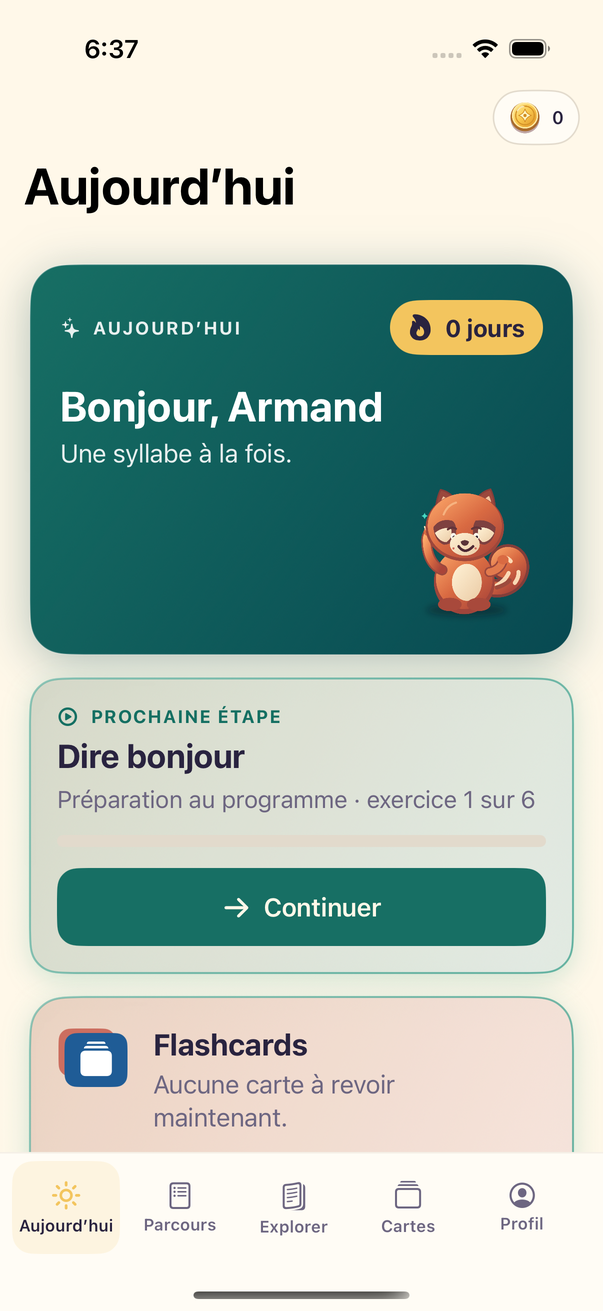
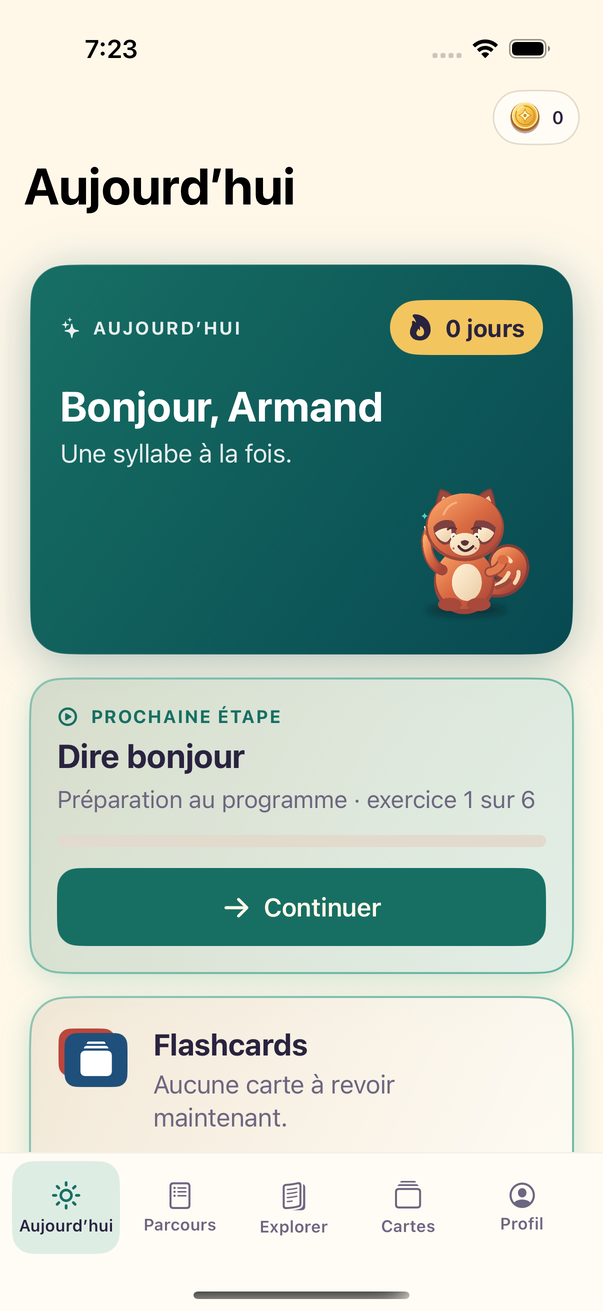
docs: refresh home and path screenshots for the shared charter [skip ci]

Changed region(s): [[0.0, 0.8848, 0.209, 0.9764], [0.0896, 0.7628, 0.209, 0.8543], [0.1493, 0.0305, 0.2388, 0.061]]

diff --git a/docs/RELEASE.md b/docs/RELEASE.md
@@ -82,13 +82,14 @@ captures du dépôt en proviennent (iPhone 16 Pro réduit à 603 × 1311, Mac
 
 | Capture | Dimensions | SHA-256 |
 | --- | --- | --- |
[16 lines of base64/hex data omitted]
@@ -97,7 +98,12 @@ captures du dépôt en proviennent (iPhone 16 Pro réduit à 603 × 1311, Mac
 Les deux captures de dialogue (écran d’intro, pinyin et traduction masqués par
 défaut) proviennent du
 [run 36446200223](https://github.com/STOOOKEEE/Polygo/actions/runs/36446200223)
-sur `cc01093`.
+sur `cc01093`. Les captures d’accueil, de parcours (unités repliables, clair
+et sombre) et de pièces après complétion proviennent des runs
+[36615123021](https://github.com/STOOOKEEE/Polygo/actions/runs/36615123021)
+sur `e85508f` (accueil iPhone) et
+[36625246917](https://github.com/STOOOKEEE/Polygo/actions/runs/36625246917)
+sur `7500d23` (les autres).
 
 Le conteneur Linux ne fournit ni Xcode, ni SwiftUI, ni SDK Apple. Les builds
 Apple, les méthodes UI, l’audit VoiceOver/Dynamic Type sur appareil, les

diff --git a/README.md b/README.md
@@ -122,9 +122,12 @@ nécessaire au bundle commun et par leur pinyin, écrit mot par mot comme partou
 ## Interface et pièces
 
 Tavi, le panda roux original, accompagne l’accueil, les encouragements et les
-célébrations. Le parcours sinueux utilise des nœuds colorés et des icônes
-adaptées aux leçons ; les révisions portent des flèches circulaires, les défis
-de fin d’unité une couronne et les leçons du module 0 une onde sonore. Les apparences Système, Clair et Sombre restent disponibles,
+célébrations. Tous les onglets partagent une même charte (fond crème ou indigo,
+cartes douces, jade pour l’action principale, or pour les récompenses). Le
+parcours regroupe les leçons en cartes d’unité repliables avec leur progression ;
+chaque leçon garde son titre visible et une icône adaptée : les révisions portent
+des flèches circulaires, les défis de fin d’unité une couronne et les leçons du
+module 0 une onde sonore. Les apparences Système, Clair et Sombre restent disponibles,
 ainsi que Réduire les animations.
 
 La même barre basse dessert **Aujourd’hui, Parcours, Explorer, Cartes et Profil**
@@ -154,9 +157,10 @@ complète. Le parcours macOS de session courte prépare 16 cartes dues, en éval
 exactement la tranche annoncée et conserve les cartes restantes pour
 « Poursuivre ».
 
-Les captures natives de la refonte proviennent du run 36339541346 :
+Les captures natives (provenance détaillée dans `docs/RELEASE.md`) :
 [accueil iPhone](docs/screenshots/home-ios.png),
 [parcours iPhone sombre](docs/screenshots/roadmap-ios-dark.png),
+[parcours iPhone clair](docs/screenshots/roadmap-ios-light.png),
 [dialogue iPhone](docs/screenshots/dialogue-ios.png),
 [pièces après complétion](docs/screenshots/coins-roadmap-ios.png),
 [écriture guidée iPhone](docs/screenshots/handwriting-guided-ios.png),
